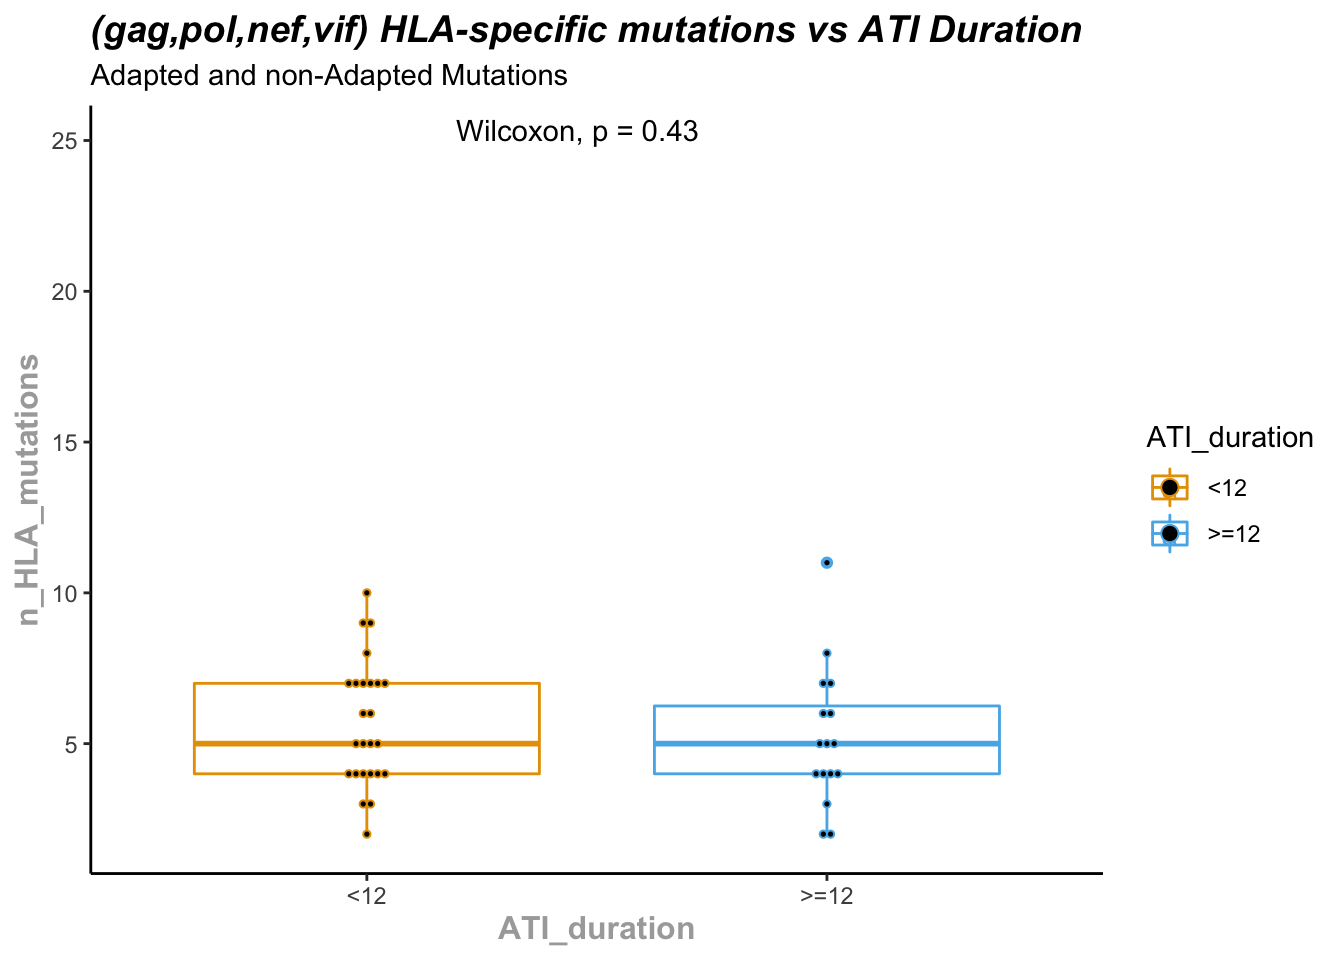
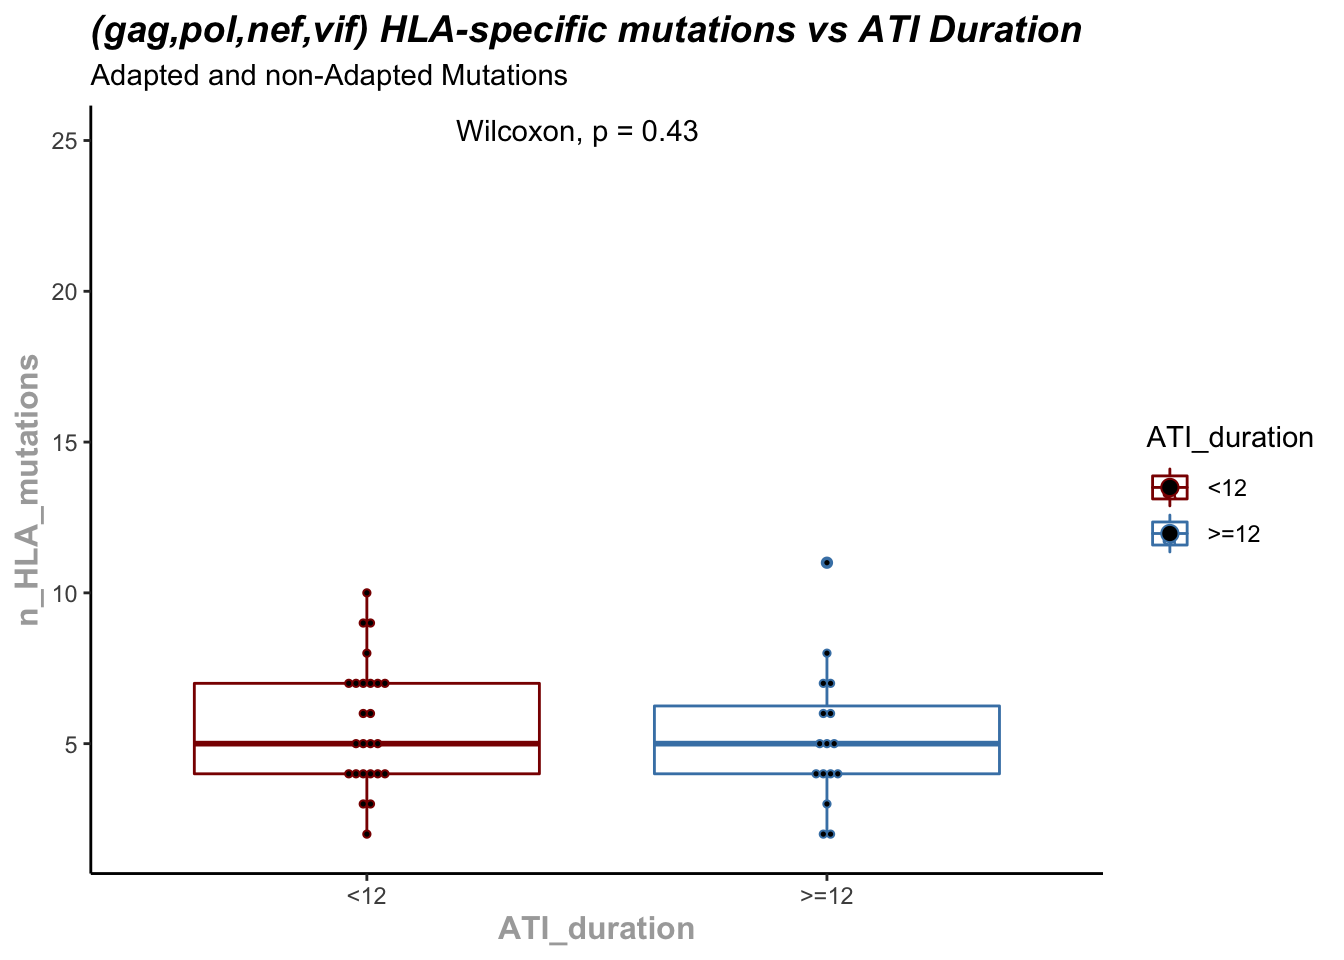
Build site.

diff --git a/docs/050_AllHLAMutations.html b/docs/050_AllHLAMutations.html
@@ -481,16 +481,16 @@ This reproducible <a href="https://rmarkdown.rstudio.com">R Markdown</a> analysi
 <div class="panel panel-default">
 <div class="panel-heading">
 <p class="panel-title">
-<a data-toggle="collapse" data-parent="#workflowr-checks" href="#strongRepositoryversionstrongahrefhttpsgithubcommnogueraHLAAnalysistree06c23c37b871fc41f1c836dead1d92d082a76a89targetblank06c23c3a"> <span class="glyphicon glyphicon-ok text-success" aria-hidden="true"></span> <strong>Repository version:</strong> <a href="https://github.com/mnoguera/HLA_Analysis/tree/06c23c37b871fc41f1c836dead1d92d082a76a89" target="_blank">06c23c3</a> </a>
+<a data-toggle="collapse" data-parent="#workflowr-checks" href="#strongRepositoryversionstrongahrefhttpsgithubcommnogueraHLAAnalysistree11539948ce62be9bd211f9be9608cf8c22621025targetblank1153994a"> <span class="glyphicon glyphicon-ok text-success" aria-hidden="true"></span> <strong>Repository version:</strong> <a href="https://github.com/mnoguera/HLA_Analysis/tree/11539948ce62be9bd211f9be9608cf8c22621025" target="_blank">1153994</a> </a>
 </p>
 </div>
[2 lines of base64/hex data omitted]
 <div class="panel-body">
 <p>
 Great! You are using Git for version control. Tracking code development and connecting the code version to the results is critical for reproducibility.
 </p>
 <p>
-The results in this page were generated with repository version <a href="https://github.com/mnoguera/HLA_Analysis/tree/06c23c37b871fc41f1c836dead1d92d082a76a89" target="_blank">06c23c3</a>. See the <em>Past versions</em> tab to see a history of the changes made to the R Markdown and HTML files.
+The results in this page were generated with repository version <a href="https://github.com/mnoguera/HLA_Analysis/tree/11539948ce62be9bd211f9be9608cf8c22621025" target="_blank">1153994</a>. See the <em>Past versions</em> tab to see a history of the changes made to the R Markdown and HTML files.
 </p>
 <p>
 Note that you need to be careful to ensure that all relevant files for the analysis have been committed to Git prior to generating the results (you can use <code>wflow_publish</code> or <code>wflow_git_commit</code>). workflowr only checks the R Markdown file, but you know if there are other scripts or data files that it depends on. Below is the status of the Git repository when the results were generated:
@@ -548,6 +548,40 @@ Message
 </tr>
 </thead>
 <tbody>
+<tr>
+<td>
+Rmd
+</td>
+<td>
+<a href="https://github.com/mnoguera/HLA_Analysis/blob/11539948ce62be9bd211f9be9608cf8c22621025/analysis/050_AllHLAMutations.Rmd" target="_blank">1153994</a>
+</td>
+<td>
+Marc Noguera-Julian
+</td>
+<td>
+2022-03-11
+</td>
+<td>
+workflowr::wflow_publish(all = T)
+</td>
+</tr>
+<tr>
+<td>
+html
+</td>
+<td>
+<a href="https://rawcdn.githack.com/mnoguera/HLA_Analysis/6dc73f10cdbc5d8653f4c0a7f041e73a52ecb4ff/docs/050_AllHLAMutations.html" target="_blank">6dc73f1</a>
+</td>
+<td>
+Marc Noguera-Julian
+</td>
+<td>
+2022-03-11
+</td>
+<td>
+Build site.
+</td>
+</tr>
 <tr>
 <td>
 Rmd
@@ -1007,7 +1041,7 @@ variant_df %&gt;%
     ggpubr::stat_compare_means(method = &quot;wilcox.test&quot;,label.x = 1.3,label.y = 25)+
     theme_classic()+
     #geom_jitter(shape=16, position=position_jitter(0.2))+
-    scale_color_manual(values=c(&quot;#E69F00&quot;, &quot;#56B4E9&quot;))+
+    scale_color_manual(values=c(&quot;darkred&quot;, &quot;steelblue&quot;))+
     ggtitle(&quot;(gag,pol,nef,vif) HLA-specific mutations vs ATI Duration&quot;,subtitle = &quot;Adapted and non-Adapted Mutations&quot;)+
     theme(
       plot.title = element_text(color=&quot;black&quot;, size=14, face=&quot;bold.italic&quot;),
@@ -1018,7 +1052,45 @@ variant_df %&gt;%
 <pre><code>Joining, by = &quot;SampleID&quot;
 Bin width defaults to 1/30 of the range of the data. Pick better value with
 `binwidth`.</code></pre>
-<p><img src="figure/050_AllHLAMutations.Rmd/calculate%20numbe%20of%20variants%20in%20patients%20HLA%20Mutations%20List%20vs%20ATI%20Duration-1.png" width="672" style="display: block; margin: auto;" /> sessionInfo()</p>
+<p><img src="figure/050_AllHLAMutations.Rmd/calculate%20numbe%20of%20variants%20in%20patients%20HLA%20Mutations%20List%20vs%20ATI%20Duration-1.png" width="672" style="display: block; margin: auto;" /></p>
+<p>
+<button type="button" class="btn btn-default btn-xs btn-workflowr btn-workflowr-fig" data-toggle="collapse" data-target="#fig-no-spaces-calculate-numbe-of-variants-in-patients-HLA-Mutations-List-vs-ATI-Duration-1">
+Past versions of "calculate numbe of variants in patients HLA Mutations List vs ATI Duration-1.png"
+</button>
+</p>
+<div id="fig-no-spaces-calculate-numbe-of-variants-in-patients-HLA-Mutations-List-vs-ATI-Duration-1" class="collapse">
+<div class="table-responsive">
+<table class="table table-condensed table-hover">
+<thead>
+<tr>
+<th>
+Version
+</th>
+<th>
+Author
+</th>
+<th>
+Date
+</th>
+</tr>
+</thead>
+<tbody>
+<tr>
+<td>
+<a href="https://github.com/mnoguera/HLA_Analysis/blob/6dc73f10cdbc5d8653f4c0a7f041e73a52ecb4ff/docs/figure/050_AllHLAMutations.Rmd/calculate numbe of variants in patients HLA Mutations List vs ATI Duration-1.png" target="_blank">6dc73f1</a>
+</td>
+<td>
+Marc Noguera-Julian
+</td>
+<td>
+2022-03-11
+</td>
+</tr>
+</tbody>
+</table>
+</div>
+</div>
+<p>sessionInfo()</p>
 <br>
 <p>
 <button type="button" class="btn btn-default btn-workflowr btn-workflowr-sessioninfo" data-toggle="collapse" data-target="#workflowr-sessioninfo" style="display: block;">

diff --git a/docs/051_AdaptedHLAMutations.html b/docs/051_AdaptedHLAMutations.html
@@ -481,16 +481,16 @@ This reproducible <a href="https://rmarkdown.rstudio.com">R Markdown</a> analysi
 <div class="panel panel-default">
 <div class="panel-heading">
 <p class="panel-title">
-<a data-toggle="collapse" data-parent="#workflowr-checks" href="#strongRepositoryversionstrongahrefhttpsgithubcommnogueraHLAAnalysistree06c23c37b871fc41f1c836dead1d92d082a76a89targetblank06c23c3a"> <span class="glyphicon glyphicon-ok text-success" aria-hidden="true"></span> <strong>Repository version:</strong> <a href="https://github.com/mnoguera/HLA_Analysis/tree/06c23c37b871fc41f1c836dead1d92d082a76a89" target="_blank">06c23c3</a> </a>
+<a data-toggle="collapse" data-parent="#workflowr-checks" href="#strongRepositoryversionstrongahrefhttpsgithubcommnogueraHLAAnalysistree11539948ce62be9bd211f9be9608cf8c22621025targetblank1153994a"> <span class="glyphicon glyphicon-ok text-success" aria-hidden="true"></span> <strong>Repository version:</strong> <a href="https://github.com/mnoguera/HLA_Analysis/tree/11539948ce62be9bd211f9be9608cf8c22621025" target="_blank">1153994</a> </a>
 </p>
 </div>
[2 lines of base64/hex data omitted]
 <div class="panel-body">
 <p>
 Great! You are using Git for version control. Tracking code development and connecting the code version to the results is critical for reproducibility.
 </p>
 <p>
-The results in this page were generated with repository version <a href="https://github.com/mnoguera/HLA_Analysis/tree/06c23c37b871fc41f1c836dead1d92d082a76a89" target="_blank">06c23c3</a>. See the <em>Past versions</em> tab to see a history of the changes made to the R Markdown and HTML files.
+The results in this page were generated with repository version <a href="https://github.com/mnoguera/HLA_Analysis/tree/11539948ce62be9bd211f9be9608cf8c22621025" target="_blank">1153994</a>. See the <em>Past versions</em> tab to see a history of the changes made to the R Markdown and HTML files.
 </p>
 <p>
 Note that you need to be careful to ensure that all relevant files for the analysis have been committed to Git prior to generating the results (you can use <code>wflow_publish</code> or <code>wflow_git_commit</code>). workflowr only checks the R Markdown file, but you know if there are other scripts or data files that it depends on. Below is the status of the Git repository when the results were generated:
@@ -548,6 +548,40 @@ Message
 </tr>
 </thead>
 <tbody>
+<tr>
+<td>
+Rmd
+</td>
+<td>
+<a href="https://github.com/mnoguera/HLA_Analysis/blob/11539948ce62be9bd211f9be9608cf8c22621025/analysis/051_AdaptedHLAMutations.Rmd" target="_blank">1153994</a>
+</td>
+<td>
+Marc Noguera-Julian
+</td>
+<td>
+2022-03-11
+</td>
+<td>
+workflowr::wflow_publish(all = T)
+</td>
+</tr>
+<tr>
+<td>
+html
+</td>
+<td>
+<a href="https://rawcdn.githack.com/mnoguera/HLA_Analysis/6dc73f10cdbc5d8653f4c0a7f041e73a52ecb4ff/docs/051_AdaptedHLAMutations.html" target="_blank">6dc73f1</a>
+</td>
+<td>
+Marc Noguera-Julian
+</td>
+<td>
+2022-03-11
+</td>
+<td>
+Build site.
+</td>
+</tr>
 <tr>
 <td>
 Rmd
@@ -1021,7 +1055,7 @@ variant_df %&gt;%
     ggpubr::stat_compare_means(method = &quot;wilcox.test&quot;,label.x = 1.3,label.y = 25)+
     theme_classic()+
     #geom_jitter(shape=16, position=position_jitter(0.2))+
-    scale_color_manual(values=c(&quot;#E69F00&quot;, &quot;#56B4E9&quot;))+
+    scale_color_manual(values=c(&quot;darkred&quot;, &quot;steelblue&quot;))+
     ggtitle(&quot;(gag,pol,nef,vif) HLA-specific mutations vs ATI Duration&quot;,subtitle = &quot;Adapted and non-Adapted Mutations&quot;)+
     theme(
       plot.title = element_text(color=&quot;black&quot;, size=14, face=&quot;bold.italic&quot;),
@@ -1033,6 +1067,43 @@ variant_df %&gt;%
 Bin width defaults to 1/30 of the range of the data. Pick better value with
 `binwidth`.</code></pre>
 <p><img src="figure/051_AdaptedHLAMutations.Rmd/calculate%20numbe%20of%20variants%20in%20patients%20HLA%20Mutations%20List%20vs%20ATI%20Duration-1.png" width="672" style="display: block; margin: auto;" /></p>
+<p>
+<button type="button" class="btn btn-default btn-xs btn-workflowr btn-workflowr-fig" data-toggle="collapse" data-target="#fig-no-spaces-calculate-numbe-of-variants-in-patients-HLA-Mutations-List-vs-ATI-Duration-1">
+Past versions of "calculate numbe of variants in patients HLA Mutations List vs ATI Duration-1.png"
+</button>
+</p>
+<div id="fig-no-spaces-calculate-numbe-of-variants-in-patients-HLA-Mutations-List-vs-ATI-Duration-1" class="collapse">
+<div class="table-responsive">
+<table class="table table-condensed table-hover">
+<thead>
+<tr>
+<th>
+Version
+</th>
+<th>
+Author
+</th>
+<th>
+Date
+</th>
+</tr>
+</thead>
+<tbody>
+<tr>
+<td>
+<a href="https://github.com/mnoguera/HLA_Analysis/blob/6dc73f10cdbc5d8653f4c0a7f041e73a52ecb4ff/docs/figure/051_AdaptedHLAMutations.Rmd/calculate numbe of variants in patients HLA Mutations List vs ATI Duration-1.png" target="_blank">6dc73f1</a>
+</td>
+<td>
+Marc Noguera-Julian
+</td>
+<td>
+2022-03-11
+</td>
+</tr>
+</tbody>
+</table>
+</div>
+</div>
 <br>
 <p>
 <button type="button" class="btn btn-default btn-workflowr btn-workflowr-sessioninfo" data-toggle="collapse" data-target="#workflowr-sessioninfo" style="display: block;">
